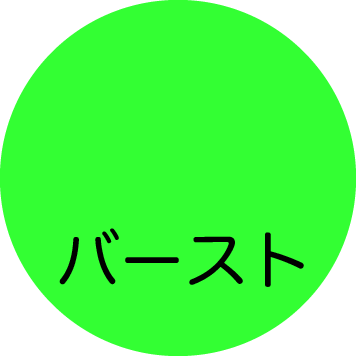
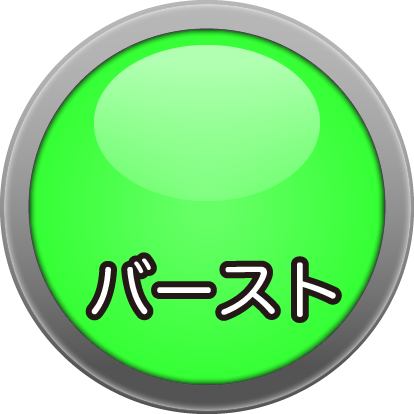
ボタン画像を最新版に置き換えた

diff --git a/src/game-object/battery-selector/view/battery-button.js b/src/game-object/battery-selector/view/battery-button.js
@@ -1,54 +1,32 @@
 // @flow
-import {CanvasMesh} from "../../../mesh/canvas-mesh";
+
+import * as THREE from 'three';
+import {SimpleImageMesh} from "../../../mesh/simple-image-mesh";
 import type {Resources} from "../../../resource";
-import * as THREE from "three";
-import type {CanvasImageResource} from "../../../resource/canvas-image";
 import {CANVAS_IMAGE_IDS} from "../../../resource/canvas-image";
-import {drawImageInCenter} from "../../../canvas/draw/image-drawer";
 
+export const MESH_SIZE = 512;
 
-/** キャンバスサイズ */
-export const CANVAS_SIZE = 1024;
-
-/** メッシュサイズ */
-export const MESH_SIZE = CANVAS_SIZE * 0.3;
-
-
+// TODO 当たり判定を追加する
 /** バッテリーボタン */
 export class BatteryButton {
-  _mesh: CanvasMesh;
-  _resources: Resources;
+  _mesh: SimpleImageMesh;
 
   constructor(resources: Resources) {
-    this._resources = resources;
-    this._mesh = new CanvasMesh({
-      canvasWidth: CANVAS_SIZE,
-      canvasHeight: CANVAS_SIZE,
-      meshWidth: MESH_SIZE,
-      meshHeight: MESH_SIZE,
+    const imageResource = resources.canvasImages
+      .find(v => v.id === CANVAS_IMAGE_IDS.BATTERY_BUTTON);
+    const image = imageResource
+      ? imageResource.image
+      : new Image();
+
+    this._mesh = new SimpleImageMesh({
+      canvasSize: MESH_SIZE,
+      image: image
     });
-    this._draw();
   }
 
   /** シーンに追加するオブジェクトを取得する */
   getObject3D(): THREE.Object3D {
     return this._mesh.getObject3D();
-  }
-
-  /** ボタンを描画する */
-  _draw(): void {
-    this._mesh.draw(context => {
-      context.clearRect(0, 0, context.canvas.height, context.canvas.height);
-      context.save();
-
-      const buttonResource: ?CanvasImageResource = this._resources.canvasImages
-        .find(v => v.id === CANVAS_IMAGE_IDS.BATTERY_SELECTOR_BUTTON);
-      const ButtonImage: Image = buttonResource ? buttonResource.image : new Image();
-      const dx = context.canvas.width / 2;
-      const dy = context.canvas.height / 2;
-      drawImageInCenter(context, ButtonImage, dx, dy);
-
-      context.restore();
-    });
   }
 }

diff --git a/src/game-object/battery-selector/view/battery-selector-view.js b/src/game-object/battery-selector/view/battery-selector-view.js
@@ -1,9 +1,18 @@
 // @flow
 
 import * as THREE from "three";
-import {BatteryButton, MESH_SIZE as BUTTON_SIZE} from "./battery-button";
 import type {Resources} from "../../../resource";
 import type {BatterySelectorModel} from "../model/battery-selector";
+import {BatteryButton} from "./battery-button";
+
+/** 全体のスケール */
+const SCALE = 0.3;
+
+/** 右パディング */
+const PADDING_RIGHT = 96;
+
+/** 下パディング */
+const PADDING_BOTTOM = 80;
 
 /** バッテリーセレクタのビュー */
 export class BatterySelectorView {
@@ -15,6 +24,8 @@ export class BatterySelectorView {
 
     this._button = new BatteryButton(resources);
     this._group.add(this._button.getObject3D());
+
+    this._group.scale.set(SCALE, SCALE, SCALE);
   }
 
   /** シーンに追加するオブジェクトを取得する */
@@ -30,7 +41,7 @@ export class BatterySelectorView {
 
   /** 座標を調整する */
   _setPos(): void {
-    this._group.position.x = window.innerWidth / 2 - BUTTON_SIZE / 2 + 32;
-    this._group.position.y = -window.innerHeight / 2 + 130;
+    this._group.position.x = window.innerWidth / 2 - PADDING_RIGHT;
+    this._group.position.y = -window.innerHeight / 2 + PADDING_BOTTOM;
   }
 }

diff --git a/src/resource/canvas-image.js b/src/resource/canvas-image.js
@@ -23,7 +23,10 @@ export const CANVAS_IMAGE_IDS = {
   ACTIVE_BATTERY_BAR: 'ACTIVE_BATTERY_BAR',
   DIS_ACTIVE_BATTERY_BAR: 'DIS_ACTIVE_BATTERY_BAR',
   GAUGE_BAR_BASE: 'GAUGE_BAR_BASE',
-  BATTERY_SELECTOR_BUTTON: 'BATTERY_SELECTOR_BUTTON',
+  BATTERY_BUTTON: 'BATTERY_BUTTON',
+  BATTERY_PLUS: 'BATTERY_PLUS',
+  BATTERY_MINUS: 'BATTERY_MINUS',
+  BATTERY_METER: 'BATTERY_METER',
   TURN_INDICATOR: 'TURN_INDICATOR',
   BURST_BUTTON: 'BURST_BUTTON',
   BATTERY_NUMBER: 'BATTERY_NUMBER',
@@ -57,8 +60,20 @@ export const CANVAS_IMAGE_CONFIGS: CanvasImageConfig[] = [
     path: 'gauge/bar-base.png',
   },
   {
-    id: CANVAS_IMAGE_IDS.BATTERY_SELECTOR_BUTTON,
-    path: 'battery-selector/button.png',
+    id: CANVAS_IMAGE_IDS.BATTERY_BUTTON,
+    path: 'battery-selector/battery-button.png',
+  },
+  {
+    id: CANVAS_IMAGE_IDS.BATTERY_PLUS,
+    path: 'battery-selector/plus-button.png',
+  },
+  {
+    id: CANVAS_IMAGE_IDS.BATTERY_MINUS,
+    path: 'battery-selector/minus-button.png',
+  },
+  {
+    id: CANVAS_IMAGE_IDS.BATTERY_METER,
+    path: 'battery-selector/meter.png',
   },
   {
     id: CANVAS_IMAGE_IDS.TURN_INDICATOR,

diff --git a/src/mesh/simple-image-mesh.js b/src/mesh/simple-image-mesh.js
@@ -1,0 +1,34 @@
+// @flow
+
+import * as THREE from 'three';
+import {CanvasMesh} from "./canvas-mesh";
+import {drawImageInCenter} from "../canvas/draw/image-drawer";
+
+type Param = {
+  canvasSize: number,
+  image: Image,
+};
+
+/** 単一のImageをメッシュ化したもの */
+export class SimpleImageMesh {
+  _mesh: CanvasMesh;
+
+  constructor(param: Param) {
+    this._mesh = new CanvasMesh({
+      canvasWidth: param.canvasSize,
+      canvasHeight: param.canvasSize,
+      meshWidth: param.canvasSize,
+      meshHeight: param.canvasSize,
+    });
+    this._mesh.draw(context => {
+      const dx = context.canvas.width / 2;
+      const dy = context.canvas.height / 2;
+      drawImageInCenter(context, param.image, dx, dy);
+    });
+  }
+
+  /** シーンに追加するオブジェクトを取得する */
+  getObject3D(): THREE.Object3D {
+    return this._mesh.mesh;
+  }
+}

diff --git a/src/game-object/burst-button/view/burst-button-view.js b/src/game-object/burst-button/view/burst-button-view.js
@@ -14,9 +14,6 @@ export const CANVAS_SIZE = 512;
 /** メッシュサイズ */
 export const MESH_SIZE = CANVAS_SIZE * 0.3;
 
-/** 左パディング */
-export const PADDING_LEFT = 0;
-
 /** バーストボタンのビュー */
 export class BurstButtonView {
   _canvasMesh: CanvasMesh;
@@ -46,7 +43,7 @@ export class BurstButtonView {
 
   /** 表示位置を更新する */
   _setPos(): void {
-    this._canvasMesh.mesh.position.x = (- window.innerWidth + MESH_SIZE) / 2 + PADDING_LEFT;
+    this._canvasMesh.mesh.position.x = (- window.innerWidth + MESH_SIZE) / 2;
     this._canvasMesh.mesh.position.y = (-window.innerHeight + MESH_SIZE) / 2;
   }
 
